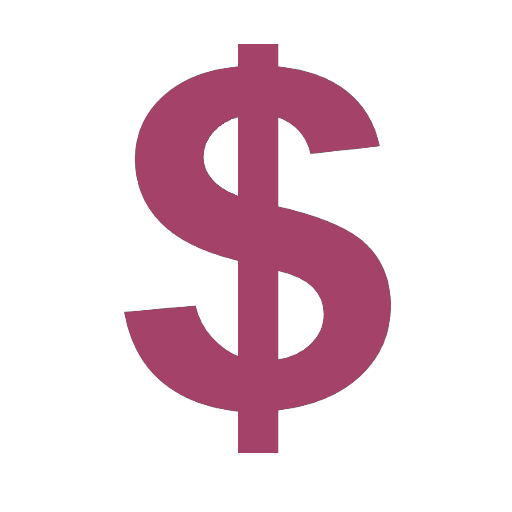
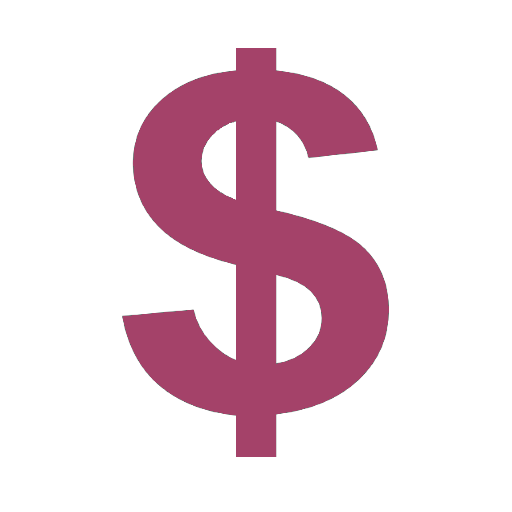
added photos to thing and adding final details

diff --git a/why_us.html b/why_us.html
@@ -23,7 +23,7 @@
                 text-decoration: none;
                 border-radius: 5px;
                 border: 2px solid black;
-                font-family: Arial;
+                font-family: Nunito;
             }
             .button-top {
                 border-radius: 20px;
@@ -32,14 +32,13 @@
                 background-color: #a44269;
                 color: white;
                 text-decoration: none;  
-                font-family: Arial;
+                font-family: Nunito;
                 }
 
             body {
-                background-color:bisque;
+                background-color: #d1c9c6;
                 margin: 0;
-    
-                font-family: Trebuchet MS;
+                font-family: Nunito;
                 color: rgb(217, 151, 186);
             }
 
@@ -57,18 +56,23 @@
             }
 
             .container{
+
                 display: flex;
-                transform: translateY(30px);
+                margin-left: auto;
+                margin-right: auto;
+                margin-top: 30px;
+            }
+            
+            .image_container{
+                position: relative;
+                overflow: hidden;
             }
 
-            .photo{
-                position: relative;
-                margin: 30px;
-                width: 22vw;
-                height: 22vw;
-                border: 10px solid #c08394;
-                background-color: #e292a9;
+            .image{
+                width: 17vw;
+                height: 17vw;
             }
+
             .section{
                 text-align: center;
                 flex: 1;
@@ -76,14 +80,36 @@
             }
 
             .description{
-                font-size: 13px;
+                font-size: 20px;
+                margin-top: -30px;
                 margin-left: 25px;
                 margin-right: 25px;
             }
 
             .headerThing{
+                font-size: 30px;
                 text-align: center;
+                color:rgb(229, 126, 181)
             }
+
+            .bg-circles{
+                position: absolute;
+                width: 13vw; /* Adjust the size of the circle */
+                height: 13vw; /* Adjust the size of the circle */
+                border-radius: 50%;
+                background-color: #c0836d;
+                z-index: -1;
+                opacity: 0.2
+                
+            }
+
+            .bg-circles:nth-child(1){
+                top: 1.4vw;
+                left: 10.4vw;
+            }
+
+
+         
         </style>
     </head>
     <body>
@@ -93,9 +119,10 @@
         </div>
         
         <div class="button-container">
-            <a class="button" href="#">About</a>
-            <a class="button" href="#">Projects</a>
-            <a class="button" href="#">Pricing</a>
+            <a class="button" href="https://rhythm-master.github.io/index">Home</a>
+            <a class="button" href="https://rhythm-master.github.io/about">About</a>
+            <a class="button" href="https://rhythm-master.github.io/why_us">Why Us</a>
+            <a class="button" href="https://rhythm-master.github.io/pricing">Pricing</a>
             <a class="button-top" href="#">Login/Sign Up</a>
         </div>
 
@@ -104,8 +131,9 @@
         </div>
         <div class="container">
             <div class="section">
-                <div class="photo">
-                    
+                <div class="image_container">
+                    <div class="bg-circles"></div>
+                    <img class="image" src="https://raw.githubusercontent.com/Rhythm-Master/Rhythm-Master.github.io/main/pictures%20used/trebleclef.png" alt="Photo of Music Note">
                 </div>
                 <div class="headerThing">
                     <h4>Music Made Easy</h4>
@@ -116,8 +144,9 @@
             </div>
 
             <div class="section">
-                <div class="photo">
-                    
+                <div class="image_container">
+                    <div class="bg-circles"></div>
+                    <img class="image" src="https://raw.githubusercontent.com/Rhythm-Master/Rhythm-Master.github.io/main/pictures%20used/bagpipe.png" alt="Photo of Bagpipe">
                 </div>
                 <div class="headerThing">
                     <h4>Interactive Learning Roadmap</h4>
@@ -128,7 +157,9 @@
             </div>
 
             <div class="section">
-                <div class="photo">
+                <div class="image_container">
+                    <div class="bg-circles"></div>
+                    <img class="image" src="https://raw.githubusercontent.com/Rhythm-Master/Rhythm-Master.github.io/main/pictures%20used/dollarsign.png" alt="Photo of Money Sign">
                     
                 </div>
                 <div class="headerThing">
